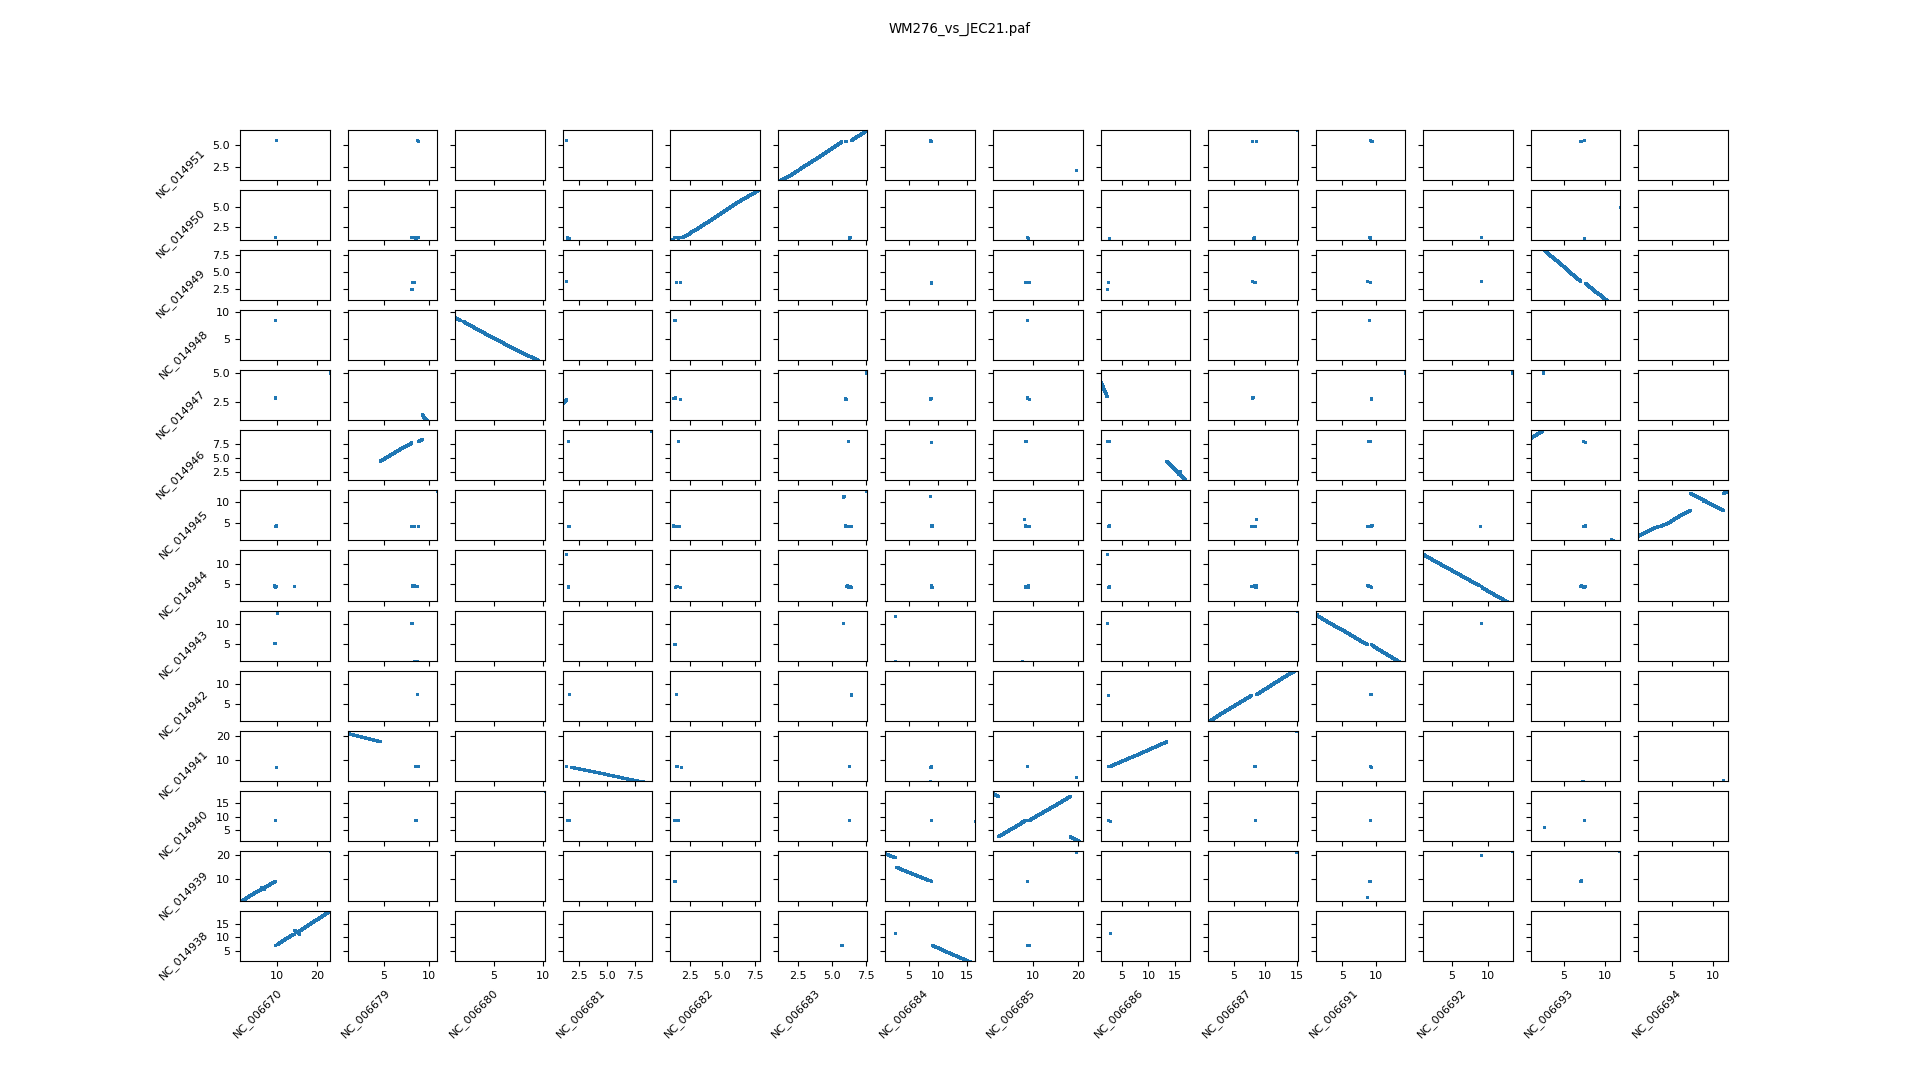
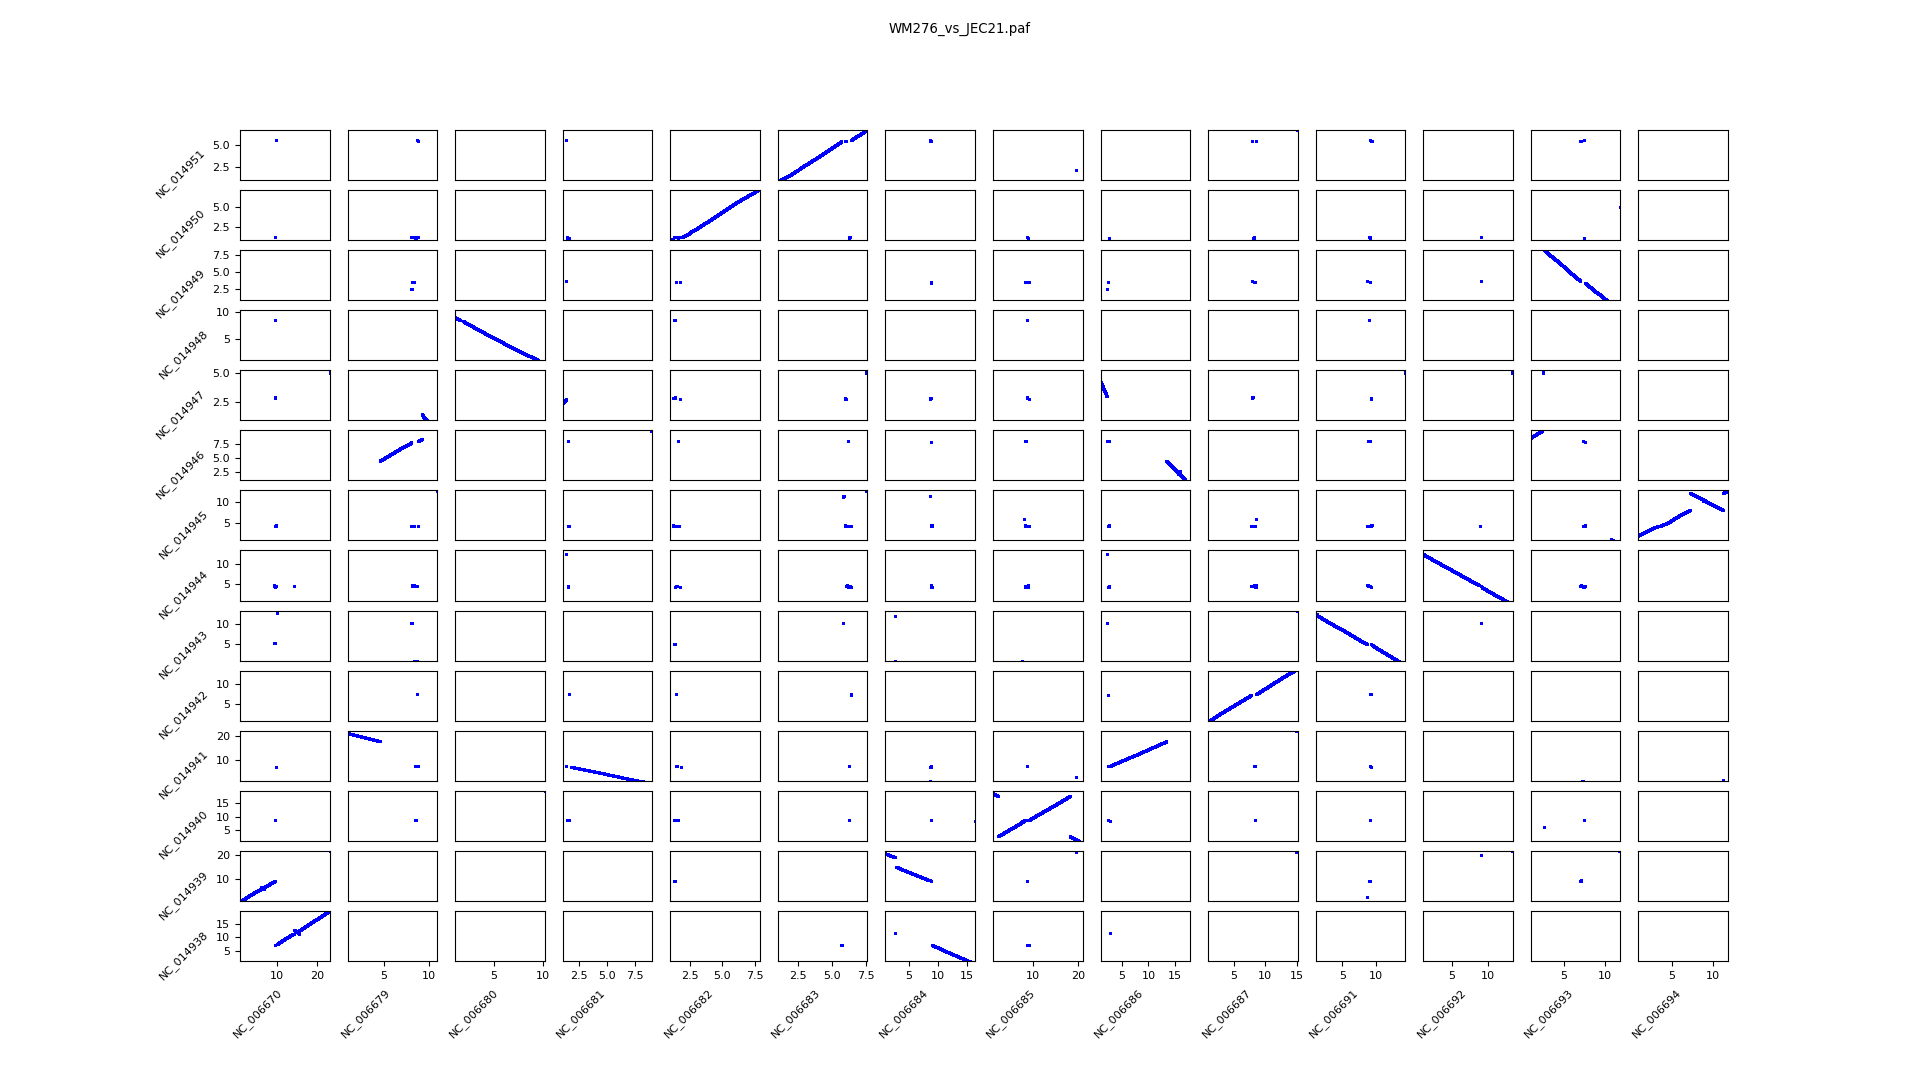
cleaner plots, rem. redundant ticks

diff --git a/paf_to_dotplot.py b/paf_to_dotplot.py
@@ -1,7 +1,7 @@
 #!/usr/bin/env python3
 ## Pombert lab, 2024
-version = '0.1b'
-updated = '2024-03-11'
+version = '0.1c'
+updated = '2024-03-14'
 name = 'paf_to_dotplot.py'
 
 import sys
@@ -165,12 +165,21 @@ for paf in paf_files:
             axes[ynum,xnum].set_xlim(1,xmax)
             axes[ynum,xnum].set_ylim(1,ymax)
 
+            ## x-axes labels and ticks
             if (ynum + 1) == len(subject_len_dict):
                 axes[ynum,xnum].set_xlabel(query, rotation=45, ha='right')
 
+            if (ynum + 1) < len(subject_len_dict):
+                axes[ynum,xnum].get_xaxis().set_visible(False)
+
+            # y-axes labels and ticks
             if (xnum == 0):
                 axes[ynum,xnum].set_ylabel(subject, rotation=45, ha='right')
 
+            if (xnum > 0):
+                axes[ynum,xnum].get_yaxis().set_visible(False)
+
+            # subplots daat
             if subject in dataframe[query].keys():
                 x1 = dataframe[query][subject].keys()
                 y1 = dataframe[query][subject].values()
